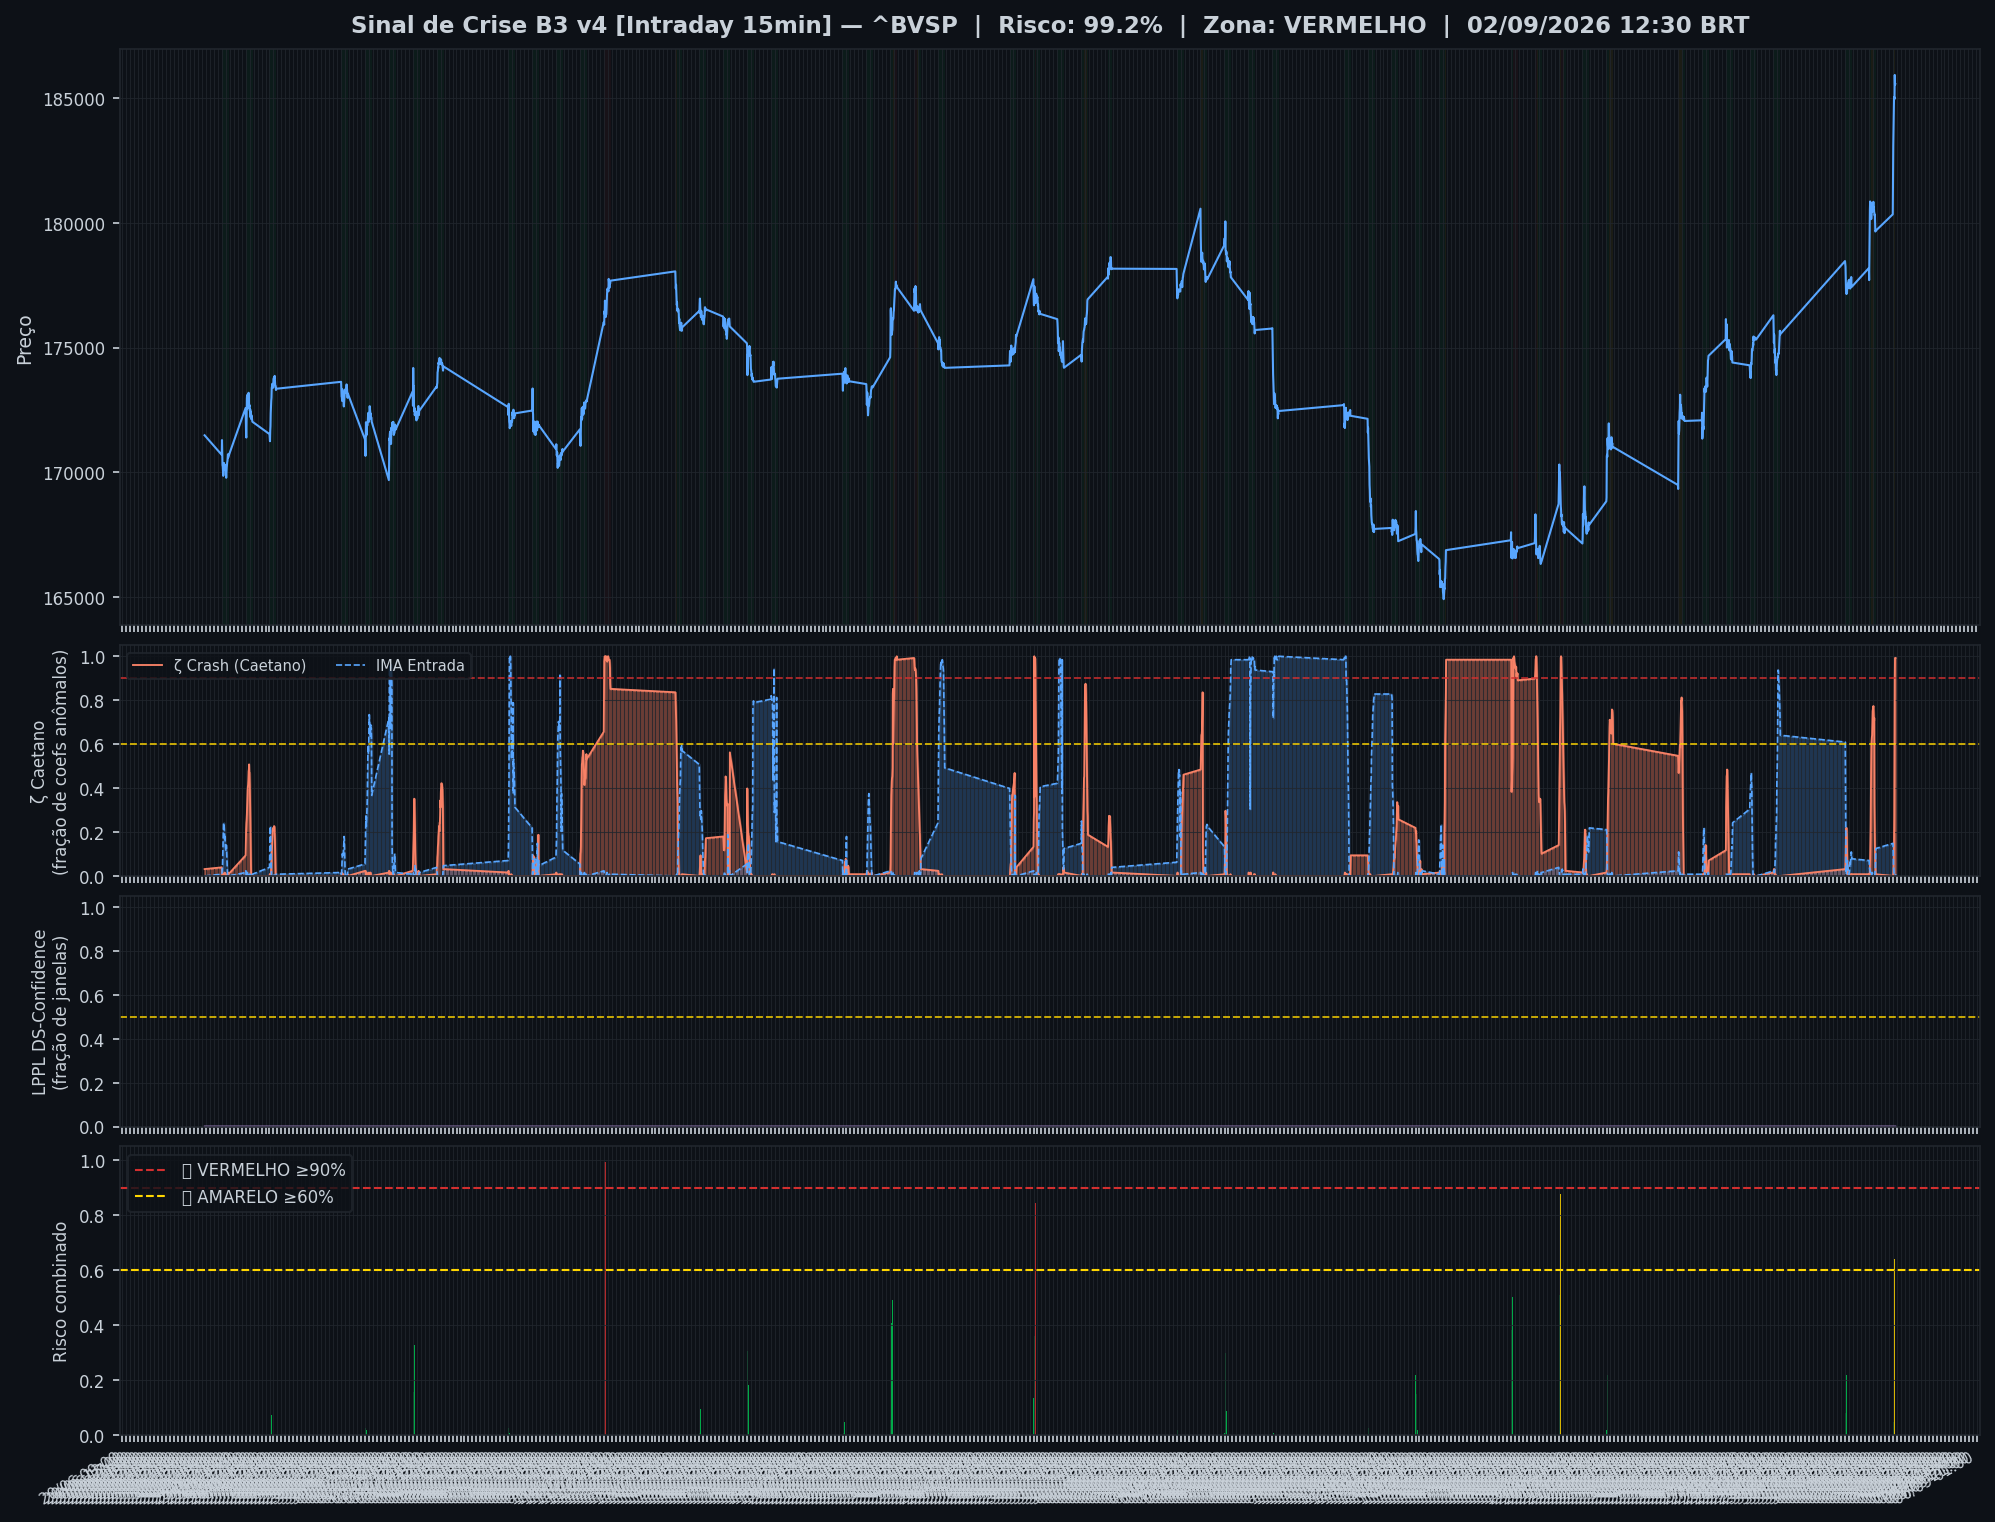
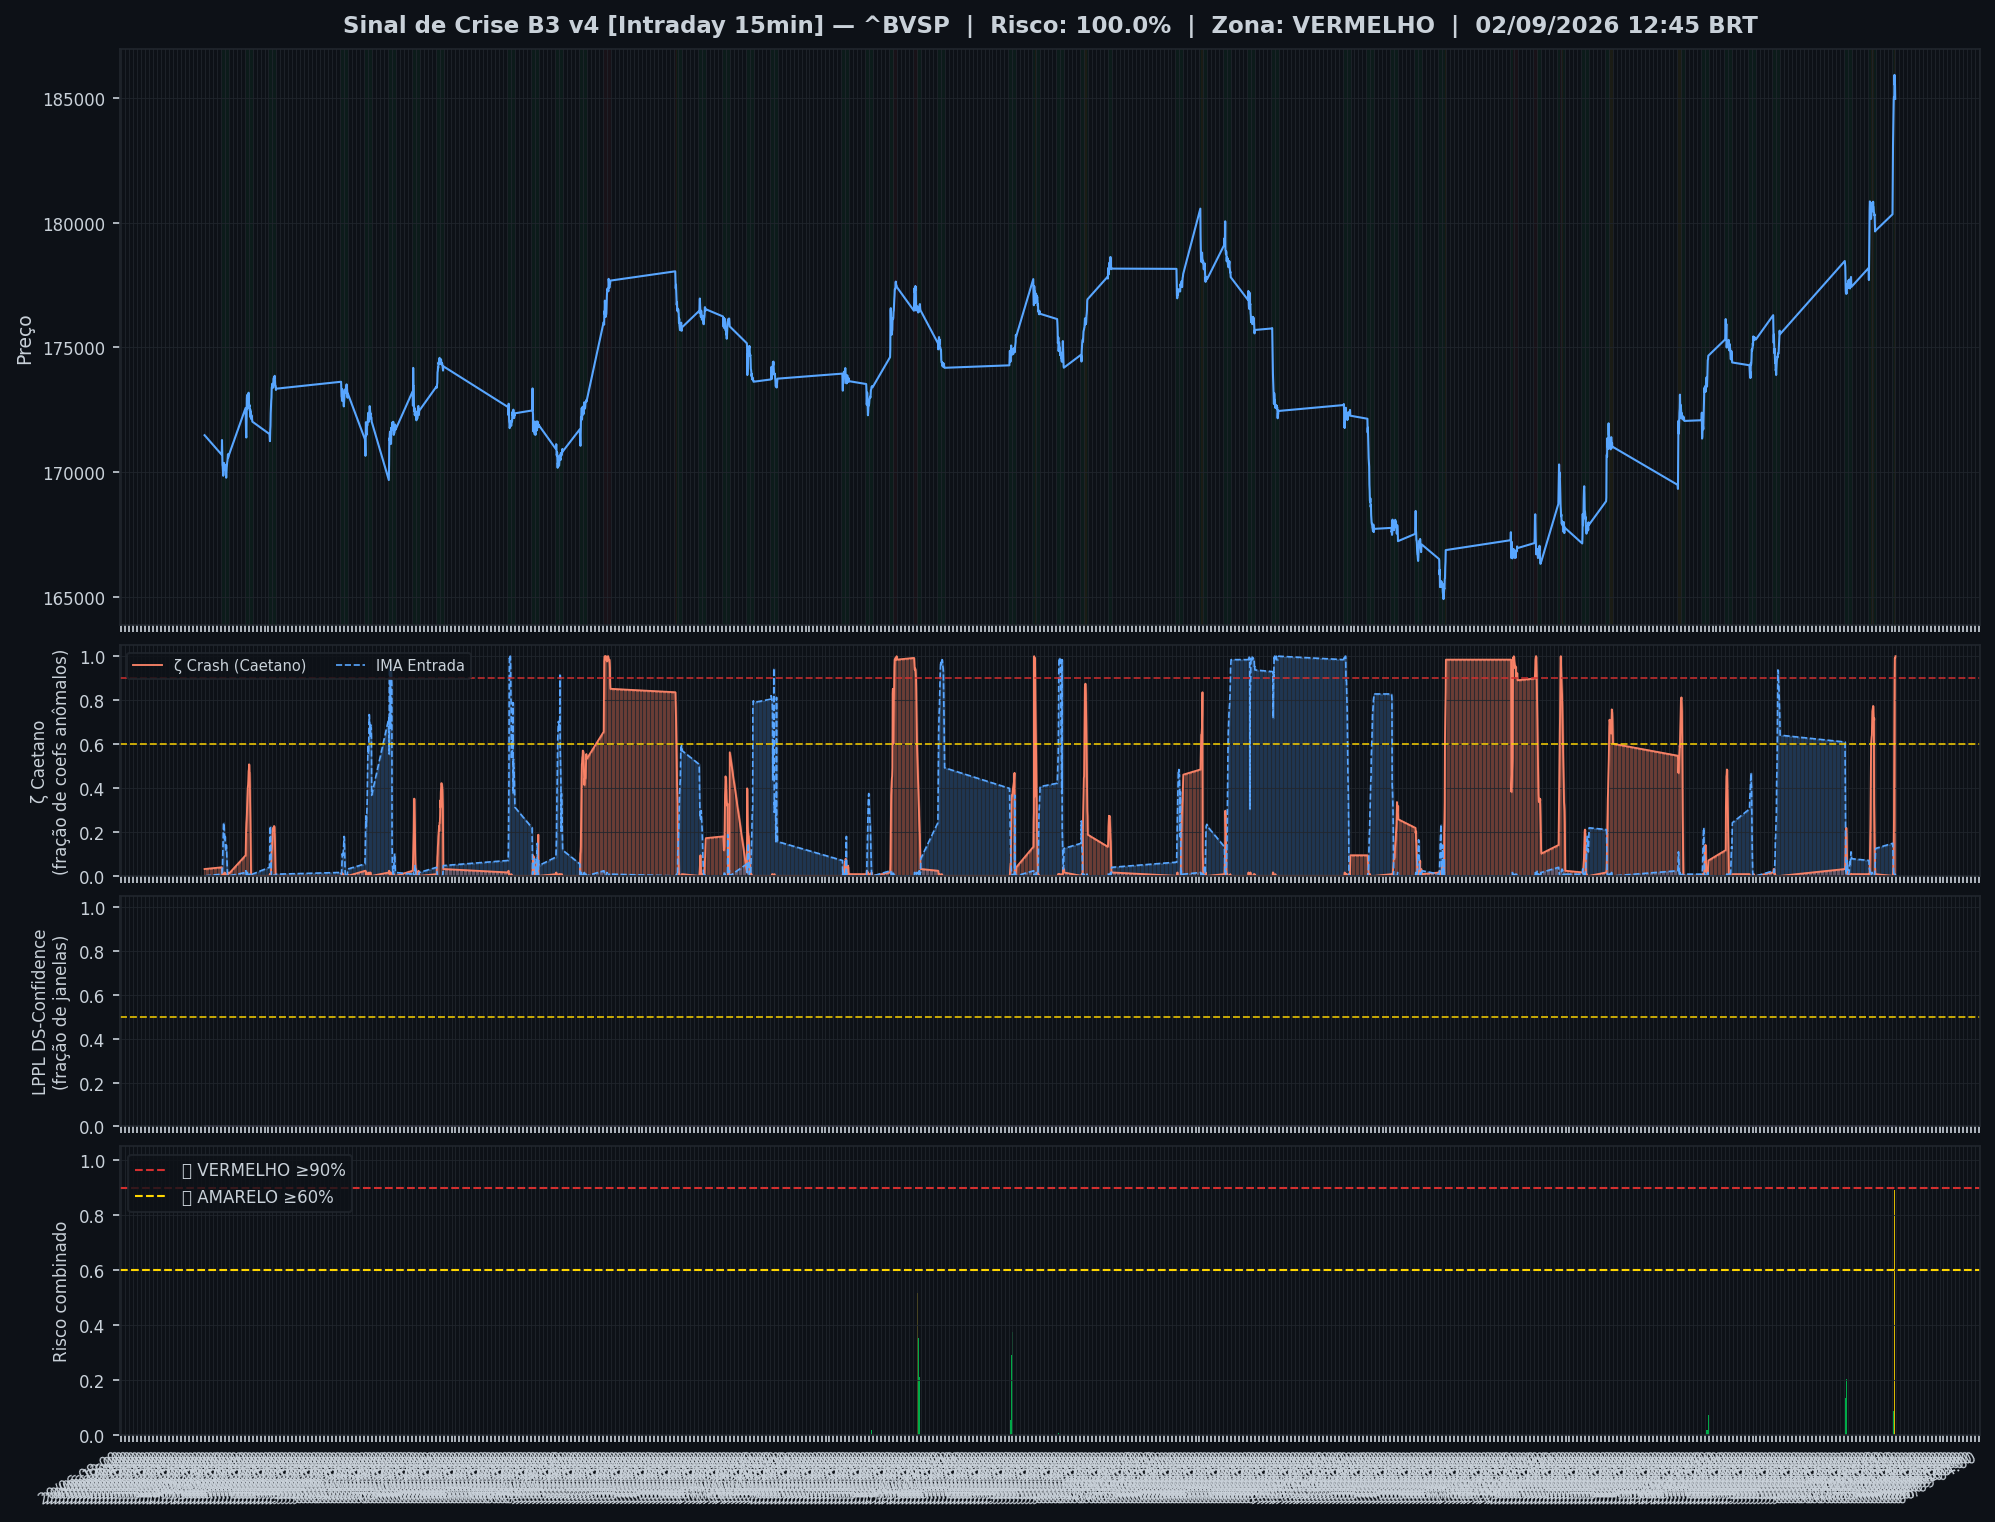
🤖 Auto: Sinal 02/09/2026 13:30

diff --git a/content/intraday/2026-09-02.md b/content/intraday/2026-09-02.md
@@ -1,20 +1,20 @@
 ---
-title: "🔴 Intraday 02/09/2026 12:30 BRT — VERMELHO"
+title: "🔴 Intraday 02/09/2026 12:45 BRT — VERMELHO"
 date: 2026-09-02
 tags: [intraday]
 ---
 
-> [!danger] 🔴 **VERMELHO** — Risco 99% · ＝ +0 p.p. vs leitura anterior
+> [!danger] 🔴 **VERMELHO** — Risco 100% · ▲ +1 p.p. vs leitura anterior
 > `████████████████████`
 > ALERTA DE CRISE — padrão pré-crise detectado.
 
 
 | Indicador | Valor |
 |---|---|
-| 🔴 ζ Crash — severidade da queda em curso | **99%** |
-| 🔵 ζ Entrada — estrutura de fundo | 1% |
+| 🔴 ζ Crash — severidade da queda em curso | **100%** |
+| 🔵 ζ Entrada — estrutura de fundo | 0% |
 | 🫧 LPPL DS-Confidence | 0% |
-| 📊 Ibovespa | 185.565 pts |
+| 📊 Ibovespa | 184.971 pts |
 
 ![Gráfico do sinal](../graficos/sinal_intraday.png)
 
@@ -22,6 +22,7 @@ tags: [intraday]
 
 | Data | Zona | Risco | IMA Crash | Entrada | LPPL |
 |---|---|---|---|---|---|
+| 2026-09-02 12:45 | 🔴 VERMELHO | **100%** | 100% | 0% | 0% |
 | 2026-09-02 12:30 | 🔴 VERMELHO | **99%** | 99% | 1% | 0% |
 | 2026-09-02 12:15 | 🔴 VERMELHO | **99%** | 99% | 0% | 0% |
 | 2026-09-02 12:00 | 🔴 VERMELHO | **99%** | 99% | 0% | 0% |
@@ -51,7 +52,6 @@ tags: [intraday]
 | 2026-09-01 13:00 | 🟡 AMARELO | **64%** | 64% | 2% | 0% |
 | 2026-09-01 12:45 | 🟡 AMARELO | **63%** | 63% | 1% | 0% |
 | 2026-09-01 12:30 | 🟡 AMARELO | **62%** | 62% | 0% | 0% |
-| 2026-09-01 12:15 | 🟡 AMARELO | **60%** | 60% | 0% | 0% |
 
 ## Monitor Multi-Ativo
 
@@ -59,37 +59,37 @@ tags: [intraday]
 
 | Zona | Ativo | Setor | IMA Crash | IMA Entrada |
 |---|---|---|---|---|
-| 🟢 | **VALE** | Mineração | 1.6% | 32.0% |
-| 🟢 | **PETROBRAS** | Petróleo | 1.6% | 32.0% |
-| 🟢 | **ITAUUNIBANCO** | Financeiro | 1.6% | 32.0% |
-| 🟢 | **PETROBRAS** | Petróleo | 1.6% | 32.0% |
-| 🟢 | **AXIA ENERGIA** | Energia | 1.6% | 32.0% |
-| 🟢 | **BRADESCO** | Financeiro | 1.6% | 32.0% |
-| 🟢 | **B3** | Financeiro | 1.6% | 32.0% |
-| 🟢 | **ITAUSA** | Financeiro | 1.6% | 32.0% |
-| 🟢 | **WEG** | Industrial | 1.6% | 32.0% |
-| 🟢 | **SABESP** | Saneamento | 1.6% | 32.0% |
-| 🟢 | **BTGP BANCO** | Financeiro | 1.6% | 32.0% |
-| 🟢 | **EMBRAER** | Outros | 1.6% | 32.0% |
-| 🟢 | **AMBEV S/A** | Consumo | 1.6% | 32.0% |
-| 🟢 | **BRASIL** | Financeiro | 1.6% | 32.0% |
-| 🟢 | **ENEVA** | Energia | 1.6% | 32.0% |
-| 🟢 | **PRIO** | Petróleo | 1.6% | 32.0% |
-| 🟢 | **EQUATORIAL** | Energia | 1.6% | 32.0% |
-| 🟢 | **COPEL** | Energia | 1.6% | 32.0% |
-| 🟢 | **VIBRA** | Energia | 1.6% | 32.0% |
-| 🟢 | **REDE D OR** | Saúde | 1.6% | 32.0% |
-| 🟢 | **ULTRAPAR** | Outros | 1.6% | 32.0% |
-| 🟢 | **LOCALIZA** | Aluguel | 1.6% | 32.0% |
-| 🟢 | **GERDAU** | Siderurgia | 1.6% | 32.0% |
-| 🟢 | **SUZANO S.A.** | Papel/Celulose | 1.6% | 32.0% |
-| 🟢 | **RAIADROGASIL** | Outros | 1.6% | 32.0% |
-| 🟢 | **BBSEGURIDADE** | Financeiro | 1.6% | 32.0% |
-| 🟢 | **USD/BRL** | Câmbio | 1.6% | 27.3% |
+| 🟢 | **VALE** | Mineração | 1.6% | 27.3% |
+| 🟢 | **PETROBRAS** | Petróleo | 1.6% | 27.3% |
+| 🟢 | **ITAUUNIBANCO** | Financeiro | 1.6% | 27.3% |
+| 🟢 | **PETROBRAS** | Petróleo | 1.6% | 27.3% |
+| 🟢 | **AXIA ENERGIA** | Energia | 1.6% | 27.3% |
+| 🟢 | **BRADESCO** | Financeiro | 1.6% | 27.3% |
+| 🟢 | **B3** | Financeiro | 1.6% | 27.3% |
+| 🟢 | **ITAUSA** | Financeiro | 1.6% | 27.3% |
+| 🟢 | **WEG** | Industrial | 1.6% | 27.3% |
+| 🟢 | **SABESP** | Saneamento | 1.6% | 27.3% |
+| 🟢 | **BTGP BANCO** | Financeiro | 1.6% | 27.3% |
+| 🟢 | **EMBRAER** | Outros | 1.6% | 27.3% |
+| 🟢 | **AMBEV S/A** | Consumo | 1.6% | 27.3% |
+| 🟢 | **BRASIL** | Financeiro | 1.6% | 27.3% |
+| 🟢 | **ENEVA** | Energia | 1.6% | 27.3% |
+| 🟢 | **PRIO** | Petróleo | 1.6% | 27.3% |
+| 🟢 | **EQUATORIAL** | Energia | 1.6% | 27.3% |
+| 🟢 | **COPEL** | Energia | 1.6% | 27.3% |
+| 🟢 | **VIBRA** | Energia | 1.6% | 27.3% |
+| 🟢 | **REDE D OR** | Saúde | 1.6% | 27.3% |
+| 🟢 | **ULTRAPAR** | Outros | 1.6% | 27.3% |
+| 🟢 | **LOCALIZA** | Aluguel | 1.6% | 27.3% |
+| 🟢 | **GERDAU** | Siderurgia | 1.6% | 27.3% |
+| 🟢 | **SUZANO S.A.** | Papel/Celulose | 1.6% | 27.3% |
+| 🟢 | **RAIADROGASIL** | Outros | 1.6% | 27.3% |
+| 🟢 | **BBSEGURIDADE** | Financeiro | 1.6% | 27.3% |
+| 🟢 | **USD/BRL** | Câmbio | 1.6% | 25.8% |
 
 ![Monitor multi-ativo](../graficos/multi_intraday.png)
 
-*Página atualizada em 02/09/2026 13:15 BRT (leitura da barra de 2026-09-02 12:30 BRT).*
+*Página atualizada em 02/09/2026 13:30 BRT (leitura da barra de 2026-09-02 12:45 BRT).*
 
 > [!info]- Como interpretar (clique para expandir)
 > - **ζ Crash**: fração dos coeficientes wavelet acima do corte (Caetano & Yoneyama 2009). Escala absoluta: ζ=0,90 = 90% dos coeficientes anômalos — historicamente, quedas com ζ≥0,90 foram mais fundas e mais longas. **Mede a severidade do movimento em curso, não prevê o início da queda.**

diff --git a/content/index.md b/content/index.md
@@ -8,19 +8,19 @@ tags: [home]
 
 Monitoramento diário e intraday do Ibovespa — **IMA Wavelet** (Prof. Marco Antonio Leonel Caetano, ITA/INSPER) + **LPPL DS-Confidence** (Prof. Didier Sornette, ETH-Zurich).
 
-*Última atualização: 02/09/2026 13:15 BRT · ^BVSP · Intraday 15min · v4*
+*Última atualização: 02/09/2026 13:30 BRT · ^BVSP · Intraday 15min · v4*
 
-> [!danger] 🔴 **VERMELHO** — Risco 99% · ＝ +0 p.p. vs leitura anterior
+> [!danger] 🔴 **VERMELHO** — Risco 100% · ▲ +1 p.p. vs leitura anterior
 > `████████████████████`
 > ALERTA DE CRISE — padrão pré-crise detectado.
 
 
 | Indicador | Valor |
 |---|---|
-| 🔴 ζ Crash — severidade da queda em curso | **99%** |
-| 🔵 ζ Entrada — estrutura de fundo | 1% |
+| 🔴 ζ Crash — severidade da queda em curso | **100%** |
+| 🔵 ζ Entrada — estrutura de fundo | 0% |
 | 🫧 LPPL DS-Confidence | 0% |
-| 📊 Ibovespa | 185.565 pts |
+| 📊 Ibovespa | 184.971 pts |
 
 **Multi-ativo:** 0% em tensão (0🔴 0🟡 de 27 ativos)
 
@@ -32,7 +32,7 @@ Monitoramento diário e intraday do Ibovespa — **IMA Wavelet** (Prof. Marco An
 
 | Data | Zona | Risco | IMA | LPPL |
 |---|---|---|---|---|
-| [02 Sep 2026](diario/2026-09-02) | 🔴 VERMELHO | **99%** | 99% | 0% |
+| [02 Sep 2026](diario/2026-09-02) | 🔴 VERMELHO | **100%** | 100% | 0% |
 | [01 Sep 2026](diario/2026-09-01) | 🟢 VERDE | **1%** | 1% | 0% |
 
 ## Navegação

diff --git a/content/historico.md b/content/historico.md
@@ -7,6 +7,7 @@ tags: [historico]
 
 | Data | Modo | Zona | Risco | IMA | LPPL |
 |---|---|---|---|---|---|
+| 2026-09-02 12:45 | intraday | 🔴 VERMELHO | 100% | 100% | 0% |
 | 2026-09-02 12:30 | intraday | 🔴 VERMELHO | 99% | 99% | 0% |
 | 2026-09-02 12:15 | intraday | 🔴 VERMELHO | 99% | 99% | 0% |
 | 2026-09-02 12:00 | intraday | 🔴 VERMELHO | 99% | 99% | 0% |
